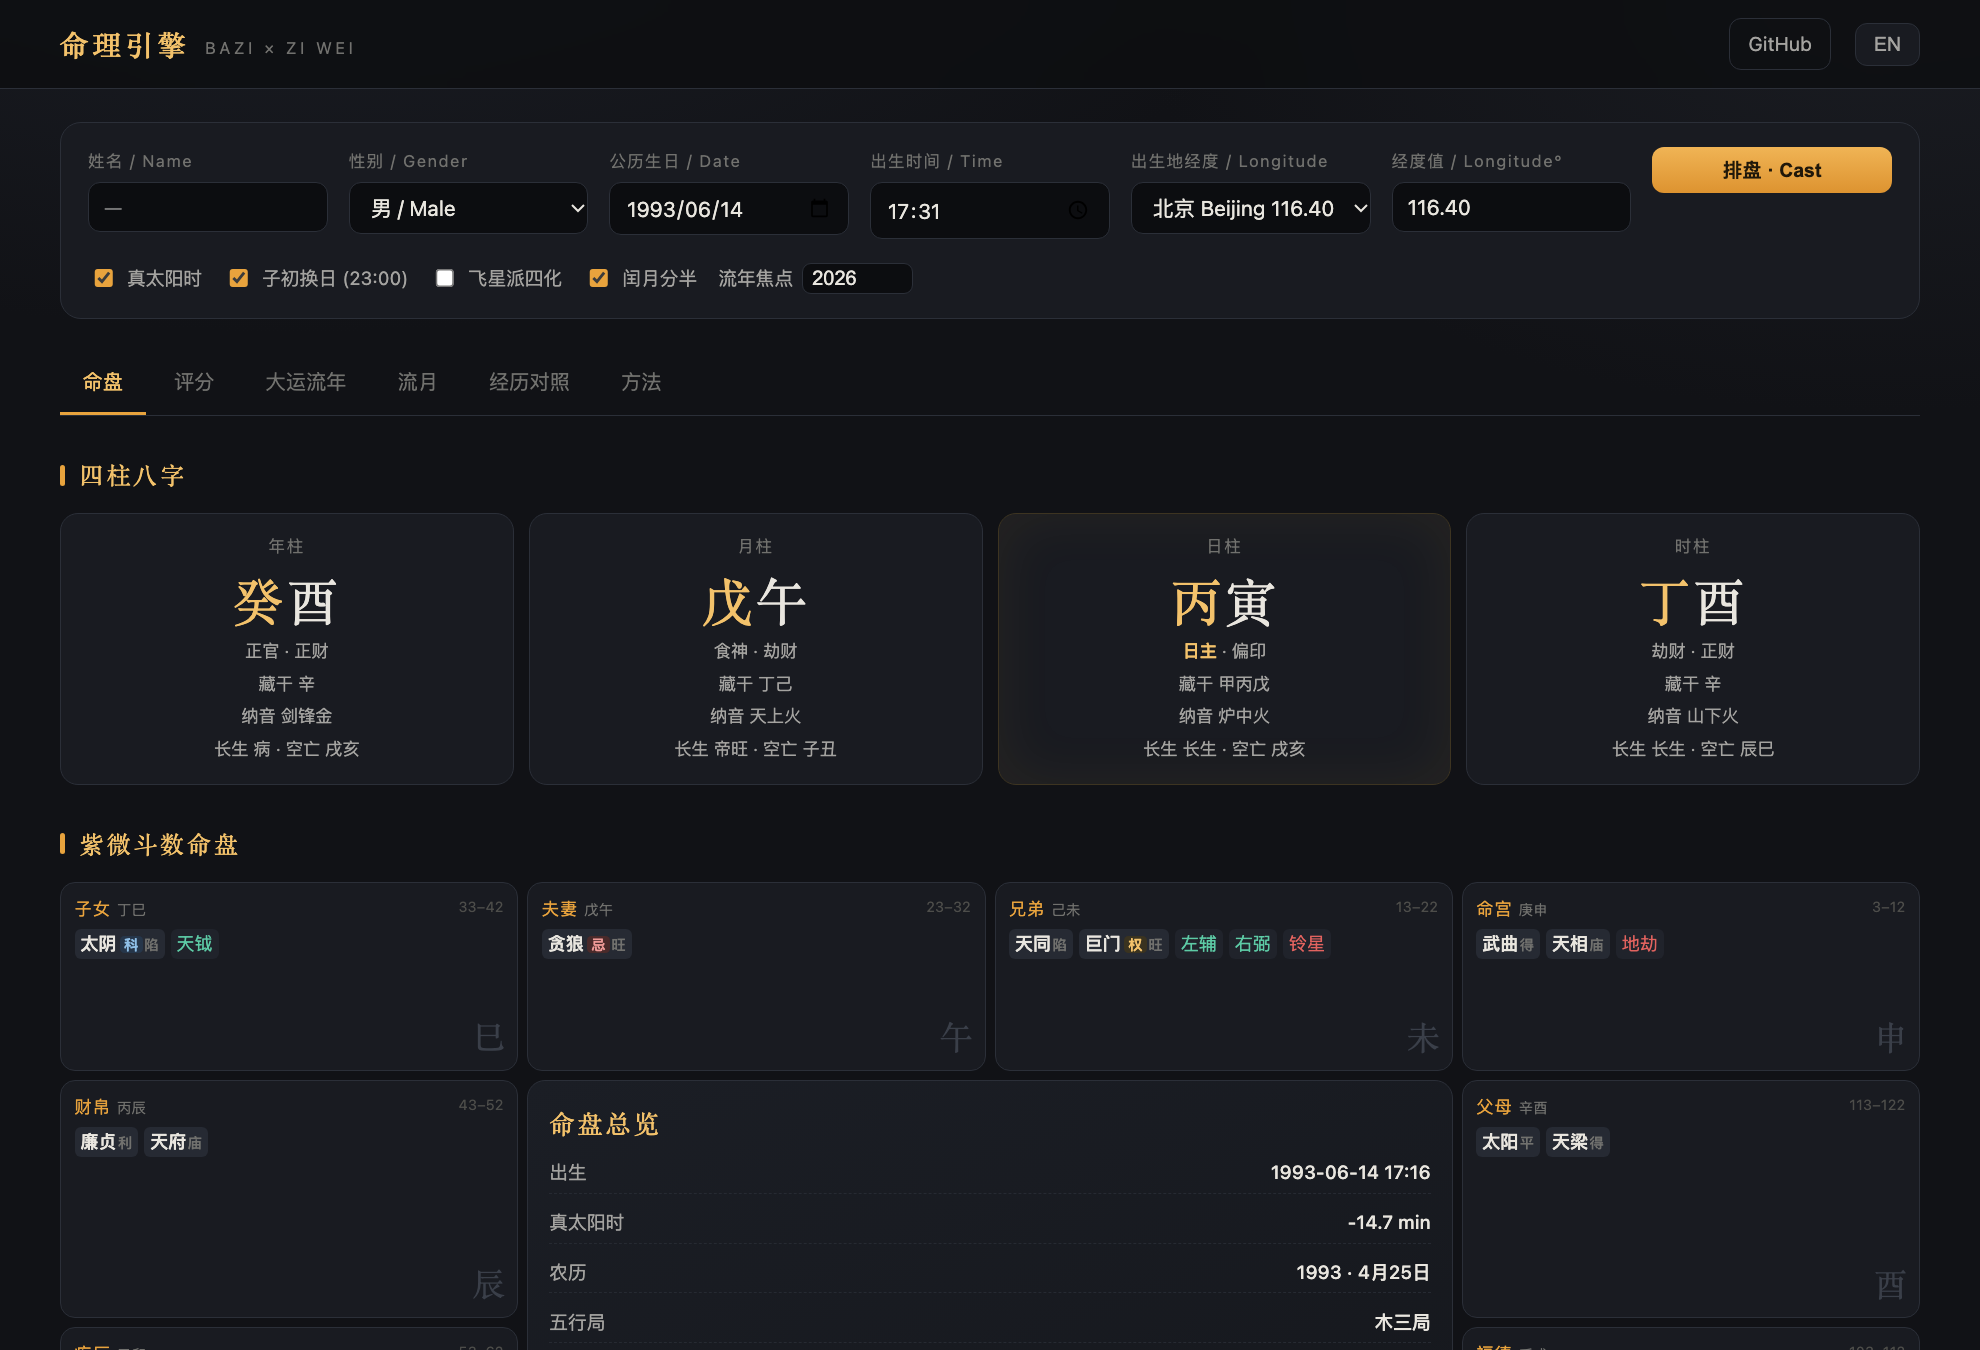
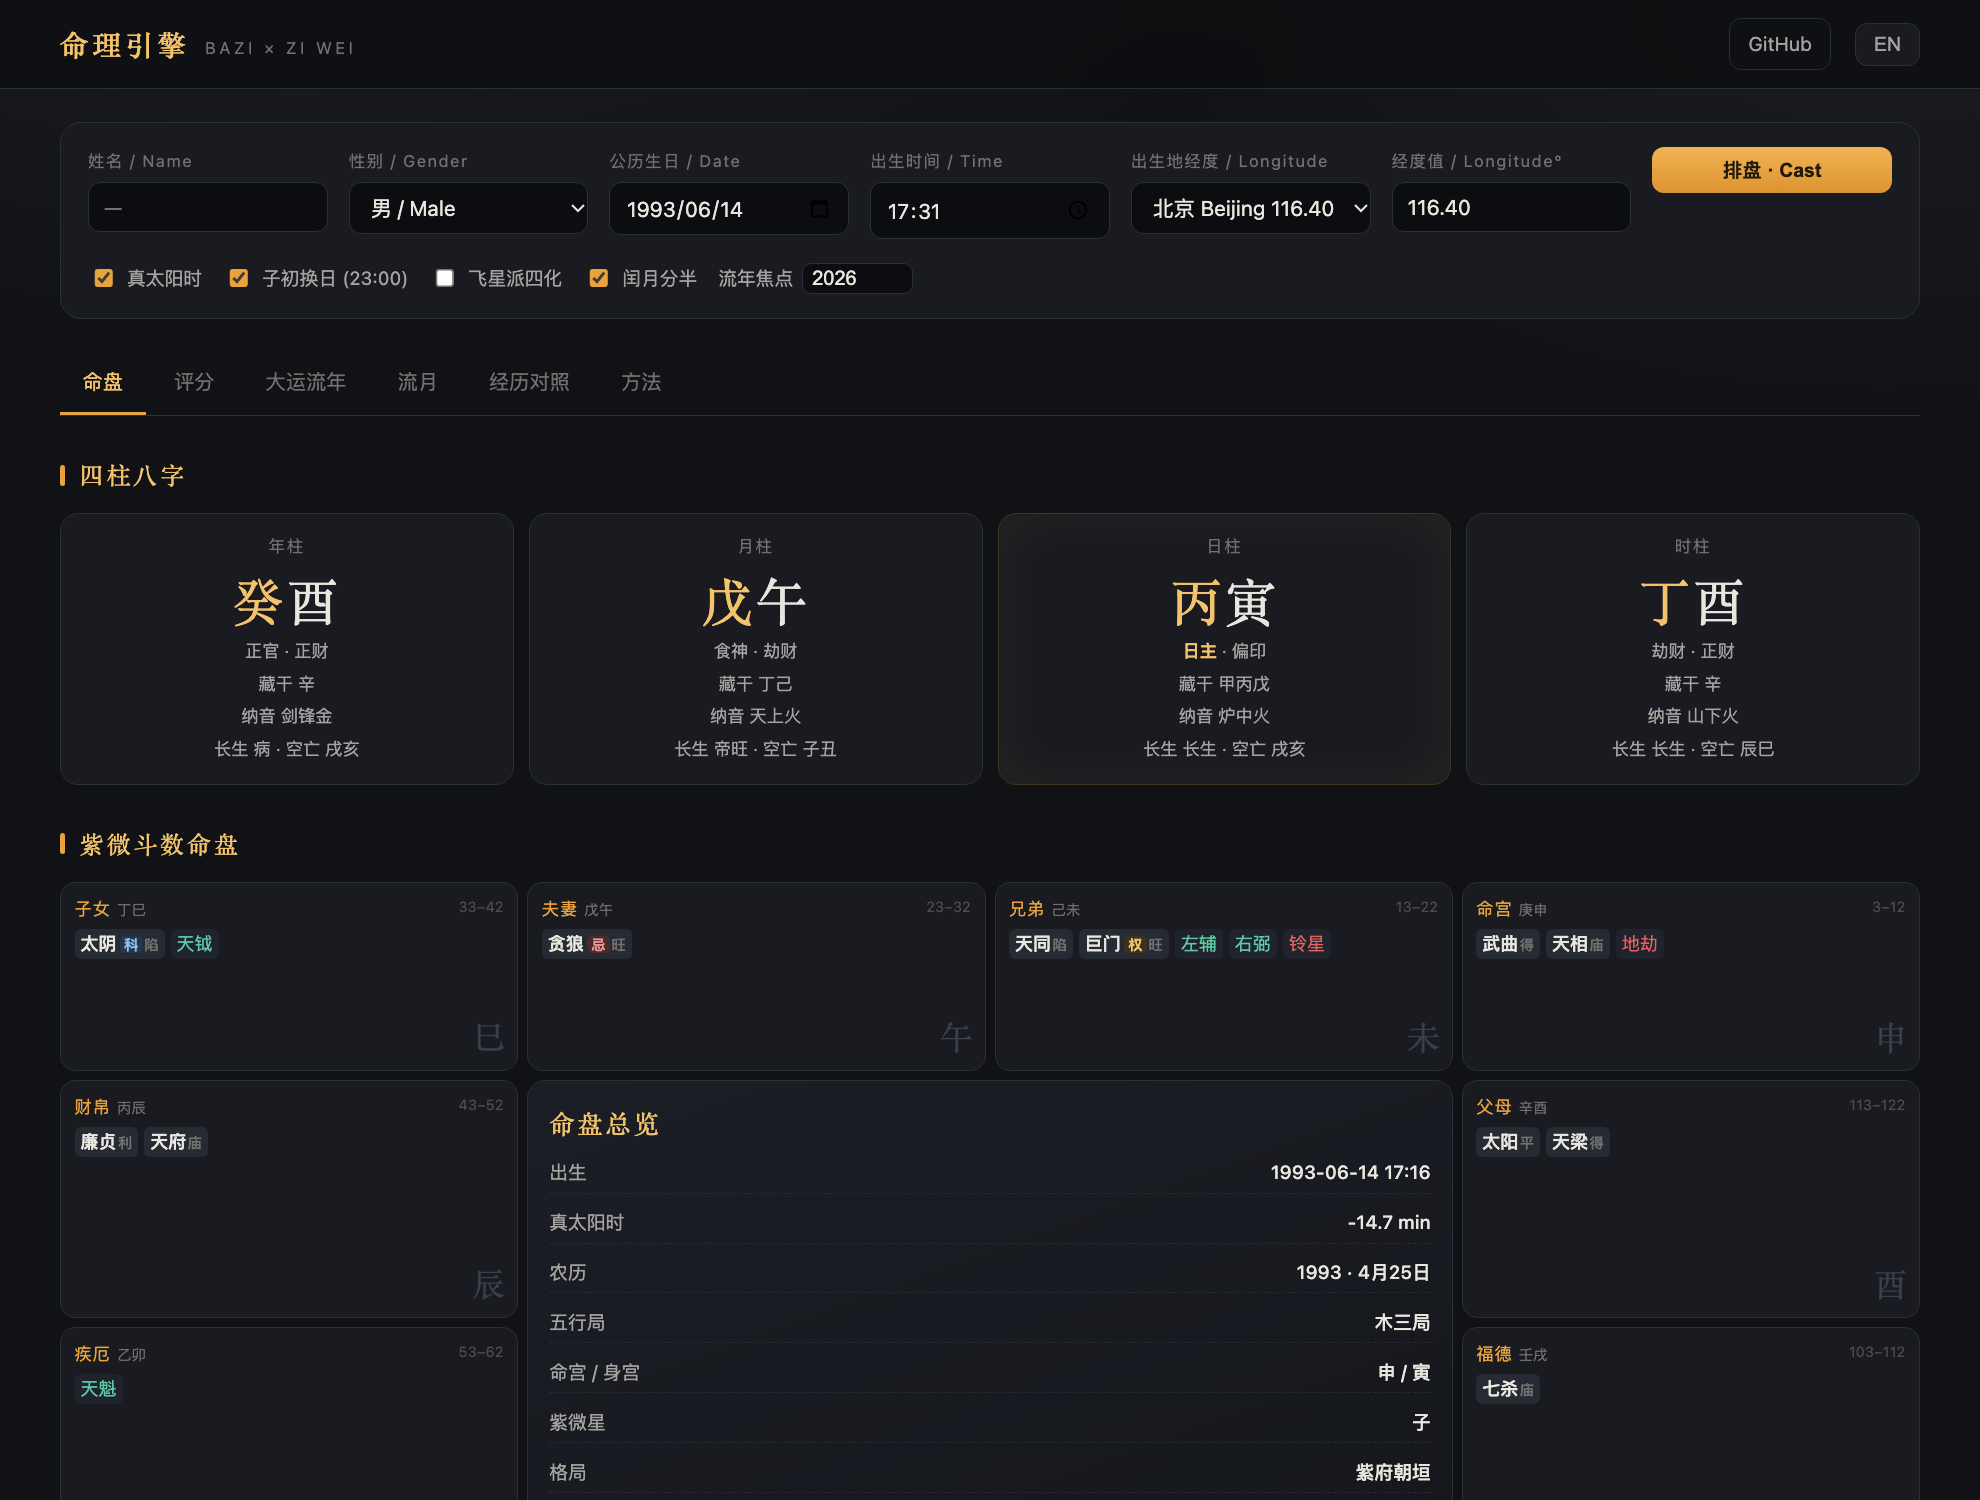
differentiate life-area scores by element share; refresh screenshots

diff --git a/docs/engine.js b/docs/engine.js
@@ -839,14 +839,26 @@
     const overall = Object.keys(dims).reduce((s, k) => s + dims[k] * W[k], 0);
     const tier = overall >= 78 ? "上格" : overall >= 68 ? "中上格" : overall >= 56 ? "中格" : overall >= 44 ? "中下格" : "下格";
     const dmwx = chart.dayMasterWx;
-    const career = 0.45 * shishenScore(chart, ["正官", "七杀", "食神", "伤官"]) + 0.55 * zs.careerScore;
-    const wealth = 0.45 * shishenScore(chart, ["正财", "偏财"]) + 0.55 * zs.wealthScore;
-    const love = 0.4 * shishenScore(chart, ["正财", "正官", "偏财", "七杀"]) + 0.35 * sanfang
-      + 0.25 * (70 - 12 * zhiRels(chart.day.zhi, chart.day.zhi).filter((x) => ["六冲", "相刑", "相害"].includes(x)).length);
-    const health = 0.4 * (100 - Math.abs((es[dmwx] || 0) - 25) * 2.2) + 0.6 * palaceScore(zc, zc.palaces.find((p) => p.name === "疾厄"));
-    const study = 0.45 * shishenScore(chart, ["正印", "偏印"]) + 0.55 * zs.mingScore;
-    const social = 0.35 * shishenScore(chart, ["比肩", "劫财"]) + 0.65 * palaceScore(zc, zc.palaces.find((p) => p.name === "仆役"));
-    const clamp = (v) => Math.round(Math.max(6, Math.min(96, v)) * 10) / 10;
+    const yin2 = Object.keys(D.SHENG).find((k) => D.SHENG[k] === dmwx);
+    const shiEl = D.SHENG[dmwx], caiEl = D.KE[dmwx];
+    const guanEl = Object.keys(D.KE).find((k) => D.KE[k] === dmwx);
+    const share = (el) => es[el] || 0;
+    const shareScore = (p) => Math.max(6, Math.min(92, 55 + (p - 20) * 1.2));
+    const male = ["male", "男", "m"].includes(chart.gender);
+    const loveEl = male ? caiEl : guanEl;
+    const guanPal = palaceScore(zc, zc.palaces.find((p) => p.name === "官禄"));
+    const caiPal = palaceScore(zc, zc.palaces.find((p) => p.name === "财帛"));
+    const mingPal = palaceScore(zc, zc.palaces.find((p) => p.name === "命宫"));
+    const jiPal = palaceScore(zc, zc.palaces.find((p) => p.name === "疾厄"));
+    const puPal = palaceScore(zc, zc.palaces.find((p) => p.name === "仆役"));
+    const career = 0.45 * (shareScore(share(guanEl)) + shareScore(share(shiEl))) / 2 + 0.55 * guanPal;
+    const wealth = 0.45 * shareScore(share(caiEl)) + 0.55 * caiPal;
+    const love = 0.35 * shareScore(share(loveEl)) + 0.35 * sanfang
+      + 0.3 * (70 - 12 * zhiRels(chart.day.zhi, chart.day.zhi).filter((x) => ["六冲", "相刑", "相害"].includes(x)).length);
+    const health = 0.4 * Math.max(10, 95 - Math.abs(share(dmwx) - 22) * 2.6) + 0.6 * jiPal;
+    const study = 0.45 * shareScore(share(yin2)) + 0.55 * mingPal;
+    const social = 0.35 * shareScore(share(dmwx)) + 0.65 * puPal;
+    const clamp = (v) => Math.round(Math.max(6, Math.min(94, v)) * 10) / 10;
     return { overall: Math.round(overall * 10) / 10, tier, dimensions: dims, weights: W,
       areas: { career: clamp(career), wealth: clamp(wealth), love: clamp(love),
         health: clamp(health), study: clamp(study), social: clamp(social) } };

diff --git a/web/engine.js b/web/engine.js
@@ -839,14 +839,26 @@
     const overall = Object.keys(dims).reduce((s, k) => s + dims[k] * W[k], 0);
     const tier = overall >= 78 ? "上格" : overall >= 68 ? "中上格" : overall >= 56 ? "中格" : overall >= 44 ? "中下格" : "下格";
     const dmwx = chart.dayMasterWx;
-    const career = 0.45 * shishenScore(chart, ["正官", "七杀", "食神", "伤官"]) + 0.55 * zs.careerScore;
-    const wealth = 0.45 * shishenScore(chart, ["正财", "偏财"]) + 0.55 * zs.wealthScore;
-    const love = 0.4 * shishenScore(chart, ["正财", "正官", "偏财", "七杀"]) + 0.35 * sanfang
-      + 0.25 * (70 - 12 * zhiRels(chart.day.zhi, chart.day.zhi).filter((x) => ["六冲", "相刑", "相害"].includes(x)).length);
-    const health = 0.4 * (100 - Math.abs((es[dmwx] || 0) - 25) * 2.2) + 0.6 * palaceScore(zc, zc.palaces.find((p) => p.name === "疾厄"));
-    const study = 0.45 * shishenScore(chart, ["正印", "偏印"]) + 0.55 * zs.mingScore;
-    const social = 0.35 * shishenScore(chart, ["比肩", "劫财"]) + 0.65 * palaceScore(zc, zc.palaces.find((p) => p.name === "仆役"));
-    const clamp = (v) => Math.round(Math.max(6, Math.min(96, v)) * 10) / 10;
+    const yin2 = Object.keys(D.SHENG).find((k) => D.SHENG[k] === dmwx);
+    const shiEl = D.SHENG[dmwx], caiEl = D.KE[dmwx];
+    const guanEl = Object.keys(D.KE).find((k) => D.KE[k] === dmwx);
+    const share = (el) => es[el] || 0;
+    const shareScore = (p) => Math.max(6, Math.min(92, 55 + (p - 20) * 1.2));
+    const male = ["male", "男", "m"].includes(chart.gender);
+    const loveEl = male ? caiEl : guanEl;
+    const guanPal = palaceScore(zc, zc.palaces.find((p) => p.name === "官禄"));
+    const caiPal = palaceScore(zc, zc.palaces.find((p) => p.name === "财帛"));
+    const mingPal = palaceScore(zc, zc.palaces.find((p) => p.name === "命宫"));
+    const jiPal = palaceScore(zc, zc.palaces.find((p) => p.name === "疾厄"));
+    const puPal = palaceScore(zc, zc.palaces.find((p) => p.name === "仆役"));
+    const career = 0.45 * (shareScore(share(guanEl)) + shareScore(share(shiEl))) / 2 + 0.55 * guanPal;
+    const wealth = 0.45 * shareScore(share(caiEl)) + 0.55 * caiPal;
+    const love = 0.35 * shareScore(share(loveEl)) + 0.35 * sanfang
+      + 0.3 * (70 - 12 * zhiRels(chart.day.zhi, chart.day.zhi).filter((x) => ["六冲", "相刑", "相害"].includes(x)).length);
+    const health = 0.4 * Math.max(10, 95 - Math.abs(share(dmwx) - 22) * 2.6) + 0.6 * jiPal;
+    const study = 0.45 * shareScore(share(yin2)) + 0.55 * mingPal;
+    const social = 0.35 * shareScore(share(dmwx)) + 0.65 * puPal;
+    const clamp = (v) => Math.round(Math.max(6, Math.min(94, v)) * 10) / 10;
     return { overall: Math.round(overall * 10) / 10, tier, dimensions: dims, weights: W,
       areas: { career: clamp(career), wealth: clamp(wealth), love: clamp(love),
         health: clamp(health), study: clamp(study), social: clamp(social) } };

diff --git a/mingli/reading.py b/mingli/reading.py
@@ -45,10 +45,10 @@ def score_overall(chart: BaziChart, zc: ZiweiChart) -> dict:
 
     zsum = zw_analysis.summary(zc)
     ming = zsum["ming_score"]
-    cai = zsum["wealth_score"]
+    cai_s = zsum["wealth_score"]
     guan = zsum["career_score"]
     qian = zw_analysis.palace_score(zc, zc.palace("迁移"))[0]
-    sanfang = round((ming * 0.4 + cai * 0.2 + guan * 0.2 + qian * 0.2), 1)
+    sanfang = round((ming * 0.4 + cai_s * 0.2 + guan * 0.2 + qian * 0.2), 1)
 
     favor, avoid, _ = bz_luck.useful_elements(chart)
     present = sum(es.get(f, 0) for f in favor)
@@ -68,28 +68,39 @@ def score_overall(chart: BaziChart, zc: ZiweiChart) -> dict:
     tier = ("上格" if overall >= 78 else "中上格" if overall >= 68 else
             "中格" if overall >= 56 else "中下格" if overall >= 44 else "下格")
 
-    # 六领域
-    ss = chart
-    guan_sha = es.get([k for k in ("木", "火", "土", "金", "水")
-                       if _ke(k) == chart.day_master_wx][0], 0)
-    _ = guan_sha
-    career = 0.45 * _shishen_score(ss, ("正官", "七杀", "食神", "伤官")) + 0.55 * guan
-    wealth = 0.45 * _shishen_score(ss, ("正财", "偏财")) + 0.55 * cai
-    love = 0.40 * _shishen_score(ss, ("正财", "正官", "偏财", "七杀")) \
-        + 0.35 * sanfang + 0.25 * _zhi_health(ss, ss.day.zhi)
-    health = 0.4 * (100 - abs(es.get(chart.day_master_wx, 0) - 25) * 2.2) \
+    # 六领域 — 以十神所属五行的实际占比折算，避免"个个都差不多"
+    from .calendar.ganzhi import KE, SHENG
+    dm = chart.day_master_wx
+    yin = [k for k in SHENG if SHENG[k] == dm][0]
+    shi, cai, guan_wx = SHENG[dm], KE[dm], [k for k in KE if KE[k] == dm][0]
+
+    def share(el: str) -> float:
+        return es.get(el, 0.0)
+
+    def share_score(p: float) -> float:
+        """20 % 视为常态（55 分），每多 10 个百分点加 14 分。"""
+        return max(6.0, min(92.0, 55.0 + (p - 20.0) * 1.2))
+
+    male = chart.gender in ("male", "男", "m")
+    love_el = cai if male else guan_wx
+    career = 0.45 * (share_score(share(guan_wx)) + share_score(share(shi))) / 2 + 0.55 * guan
+    wealth = 0.45 * share_score(share(cai)) + 0.55 * cai_s
+    love = 0.35 * share_score(share(love_el)) + 0.35 * sanfang \
+        + 0.30 * _zhi_health(chart, chart.day.zhi)
+    health = 0.4 * max(10.0, 95 - abs(share(dm) - 22) * 2.6) \
         + 0.6 * zw_analysis.palace_score(zc, zc.palace("疾厄"))[0]
-    study = 0.45 * _shishen_score(ss, ("正印", "偏印")) + 0.55 * ming
-    social = 0.35 * _shishen_score(ss, ("比肩", "劫财")) \
+    study = 0.45 * share_score(share(yin)) + 0.55 * ming
+    social = 0.35 * share_score(share(dm)) \
         + 0.65 * zw_analysis.palace_score(zc, zc.palace("仆役"))[0]
 
+    CL = 94.0
     areas = {
-        "career": round(min(96, max(6, career)), 1),
-        "wealth": round(min(96, max(6, wealth)), 1),
-        "love": round(min(96, max(6, love)), 1),
-        "health": round(min(96, max(6, health)), 1),
-        "study": round(min(96, max(6, study)), 1),
-        "social": round(min(96, max(6, social)), 1),
+        "career": round(min(CL, max(6, career)), 1),
+        "wealth": round(min(CL, max(6, wealth)), 1),
+        "love": round(min(CL, max(6, love)), 1),
+        "health": round(min(CL, max(6, health)), 1),
+        "study": round(min(CL, max(6, study)), 1),
+        "social": round(min(CL, max(6, social)), 1),
     }
     return {"overall": round(overall, 1), "tier": tier, "dimensions": dims,
             "areas": areas, "weights": weights}
